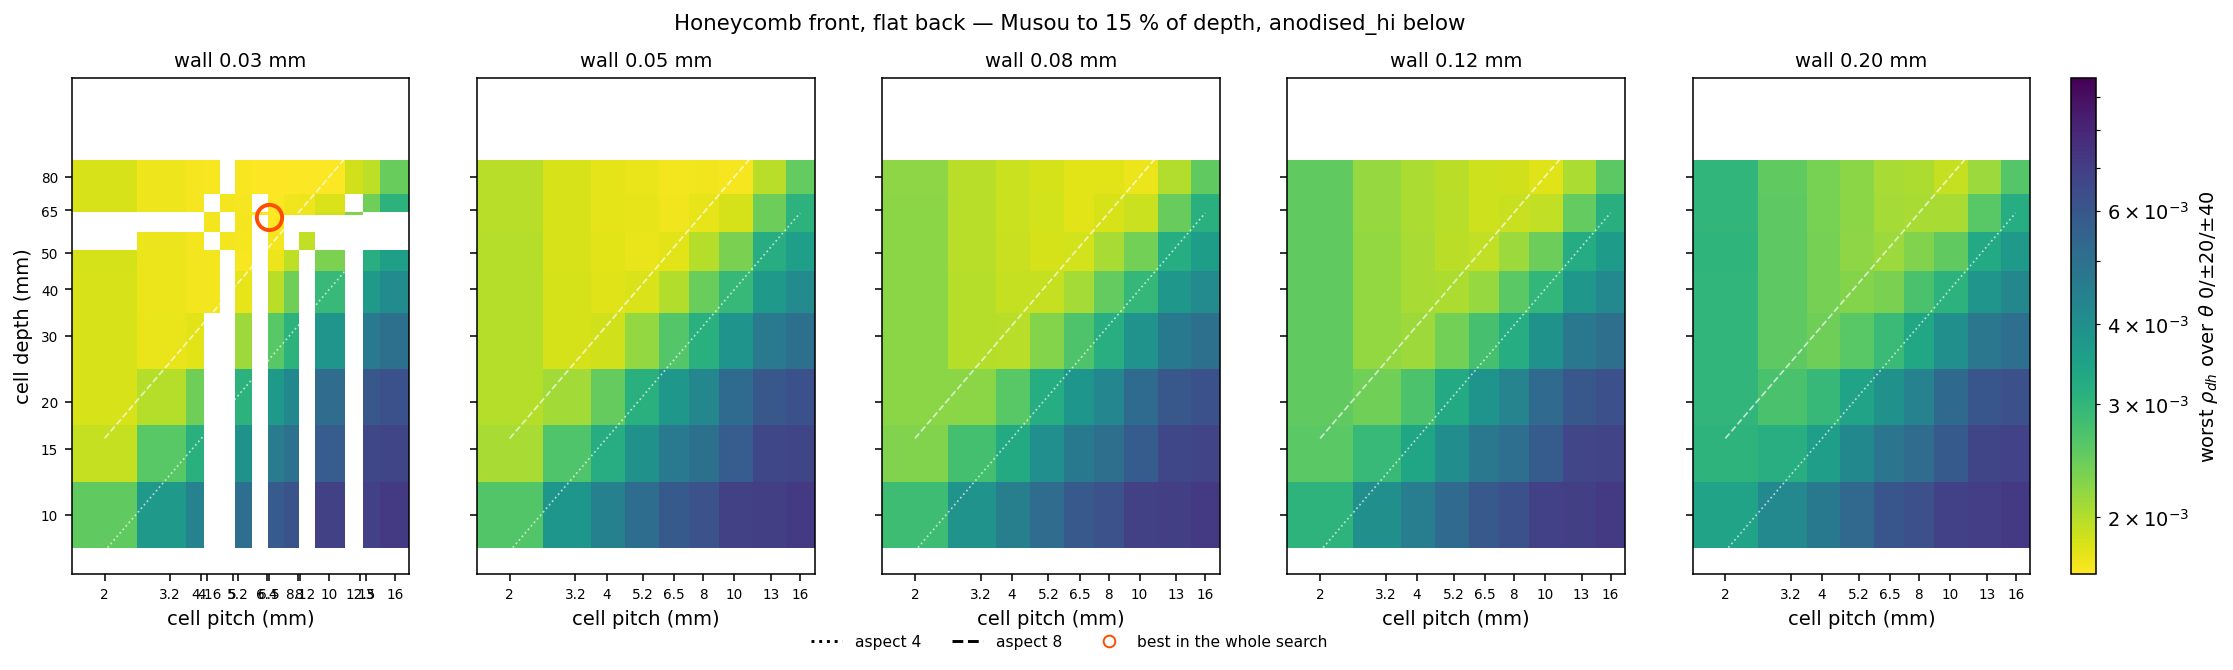
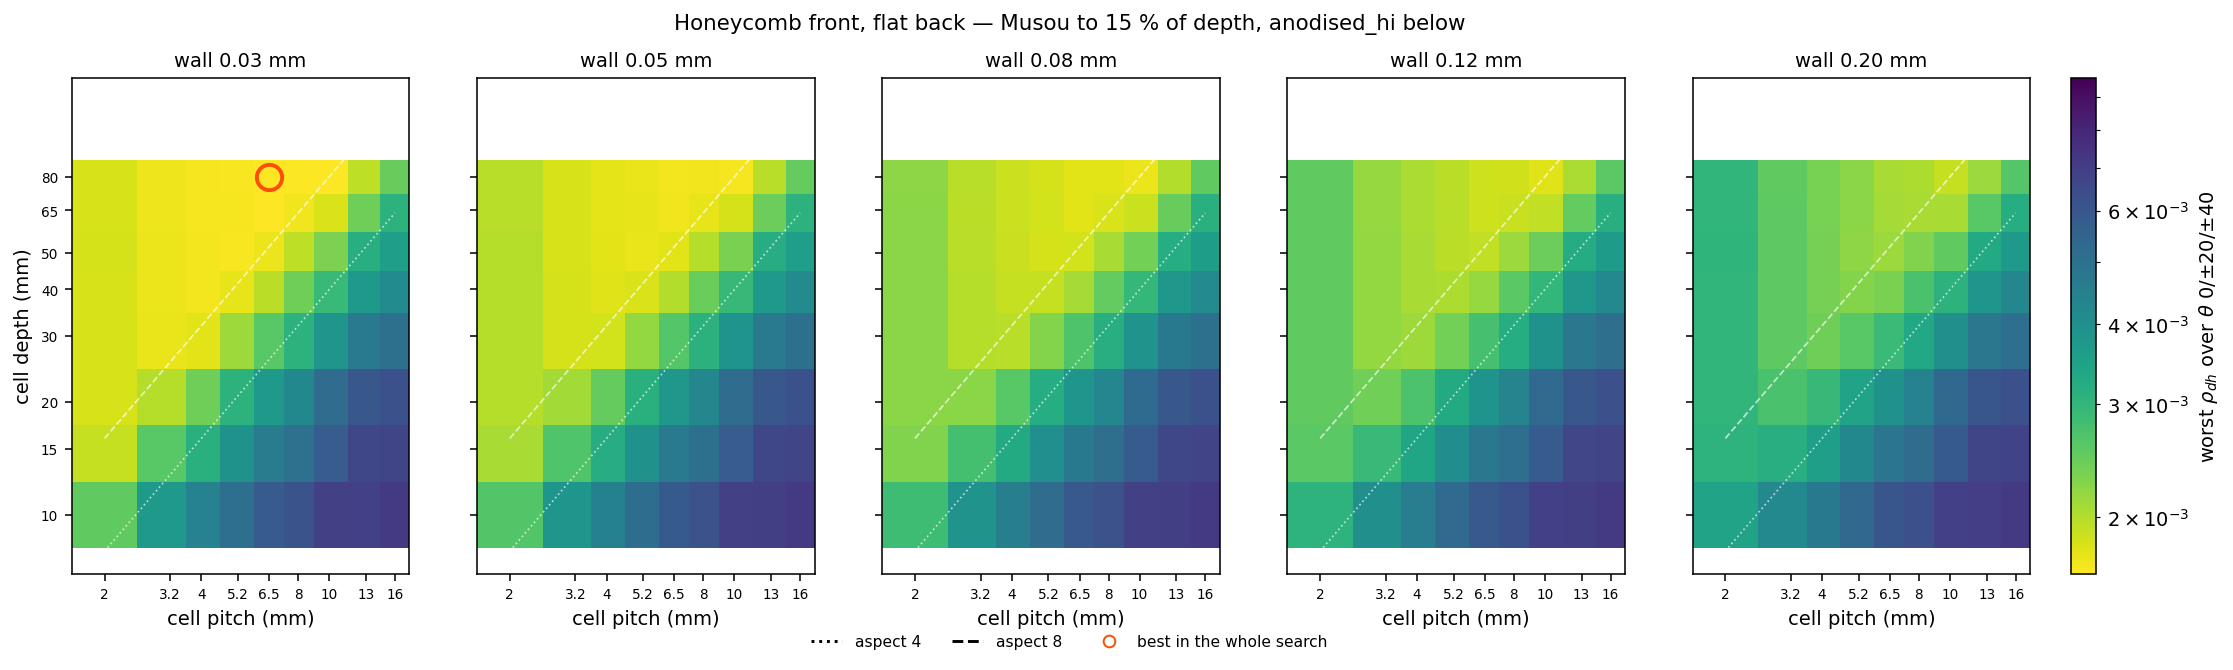
Draw the landscape on the grid it was measured on
Stage C refines AROUND the best cells, so it adds pitches and depths that sit
between the grid lines and exist for only a few wall thicknesses. Drawn as a
heatmap those became ragged holes in the wall-0.03 panel and a row of tick
labels printing 4 through 4.16 and 8 through 8.12 on top of each other. The
refinement is still in the CSV and still in the ranking; the figure is the
regular grid it was refined from, and the shared colour scale is now taken from
what is actually drawn rather than from cells that are not.

Claude-Session: https://claude.ai/code/session_01K47A2MUcnbhSys1G2KznLY

Changed region(s): [[0.0309, 0.2388, 0.1854, 0.8358], [0.0927, 0.8657, 0.1236, 0.8955]]

diff --git a/project/scripts/plot_hcflat.py b/project/scripts/plot_hcflat.py
@@ -59,8 +59,16 @@ def score(path):
     return out
 
 
-def _grid(agg, wall, frac):
+def _grid(agg, wall, frac, base=None):
     sel = {k: v for k, v in agg.items() if k[2] == wall and k[3] == frac}
+    # Stage C refines AROUND the best cells, so it adds pitches and depths that
+    # sit between the grid lines and exist for only a few combinations. Drawn
+    # as a heatmap those become ragged holes and a row of colliding tick
+    # labels. The refinement is in the CSV and in the ranking; this figure is
+    # the regular grid it was refined from.
+    if base is not None:
+        ps0, ds0 = base
+        sel = {k: v for k, v in sel.items() if k[0] in ps0 and k[1] in ds0}
     if not sel:
         return None, None, None
     ps = sorted({k[0] for k in sel})
@@ -81,6 +89,9 @@ def _edges(v):
                                  [lg[-1] + (lg[-1] - mid[-1])]))
 
 
+BASE = None
+
+
 def draw(agg, frac, norm, best, out):
     walls = sorted({k[2] for k in agg if k[3] == frac})
     if not walls:
@@ -89,7 +100,7 @@ def draw(agg, frac, norm, best, out):
                              squeeze=False, sharey=True)
     pc = None
     for ax, wl in zip(axes[0], walls):
-        ps, ds, m = _grid(agg, wl, frac)
+        ps, ds, m = _grid(agg, wl, frac, base=BASE)
         if ps is None:
             continue
         pc = ax.pcolormesh(_edges(ps), _edges(ds), np.ma.masked_invalid(m),
@@ -133,11 +144,17 @@ def main():
     agg = score(a.csv)
     if not agg:
         raise SystemExit("no scored rows in %s" % a.csv)
+    global BASE
+    import sweep_hcflat as SW
+    BASE = (set(SW.PITCH), set(SW.DEPTH))
 
-    vals = np.array([v[0] for v in agg.values()])
+    vals = np.array([v[0] for k, v in agg.items()
+                     if k[0] in BASE[0] and k[1] in BASE[1]])
     # ONE scale for every panel of every figure
     norm = LogNorm(vmin=vals.min(), vmax=vals.max())
-    best = min(agg, key=lambda k: agg[k][0])
+    ongrid = {k: v for k, v in agg.items()
+              if k[0] in BASE[0] and k[1] in BASE[1]}
+    best = min(ongrid, key=lambda k: ongrid[k][0])
 
     made = []
     for frac in sorted({k[3] for k in agg}, reverse=True):
